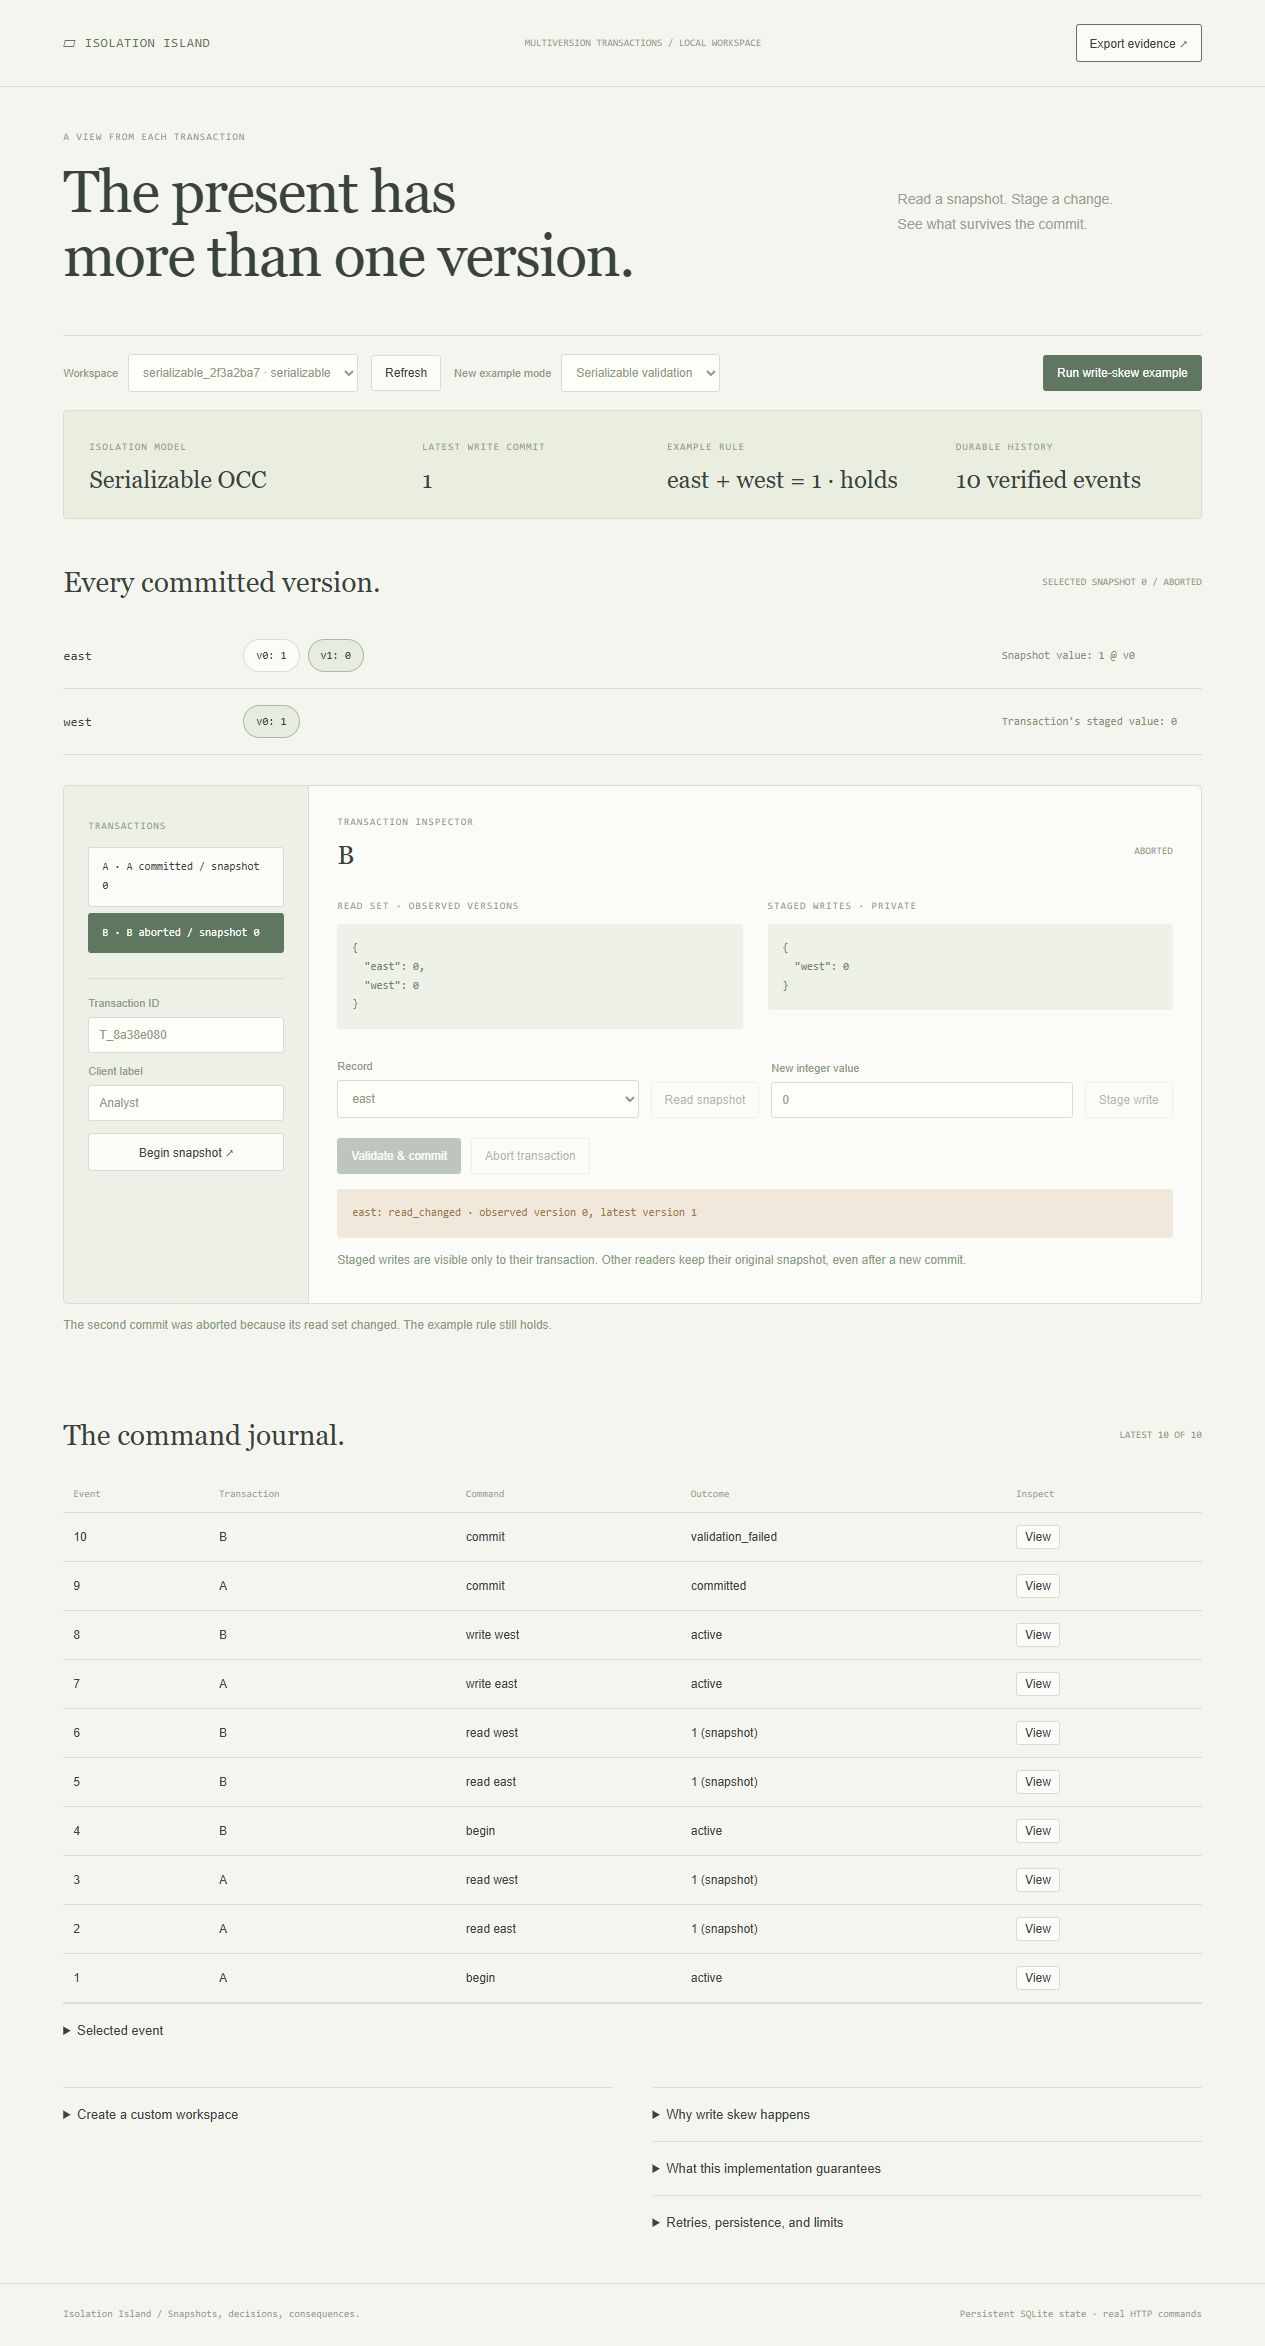
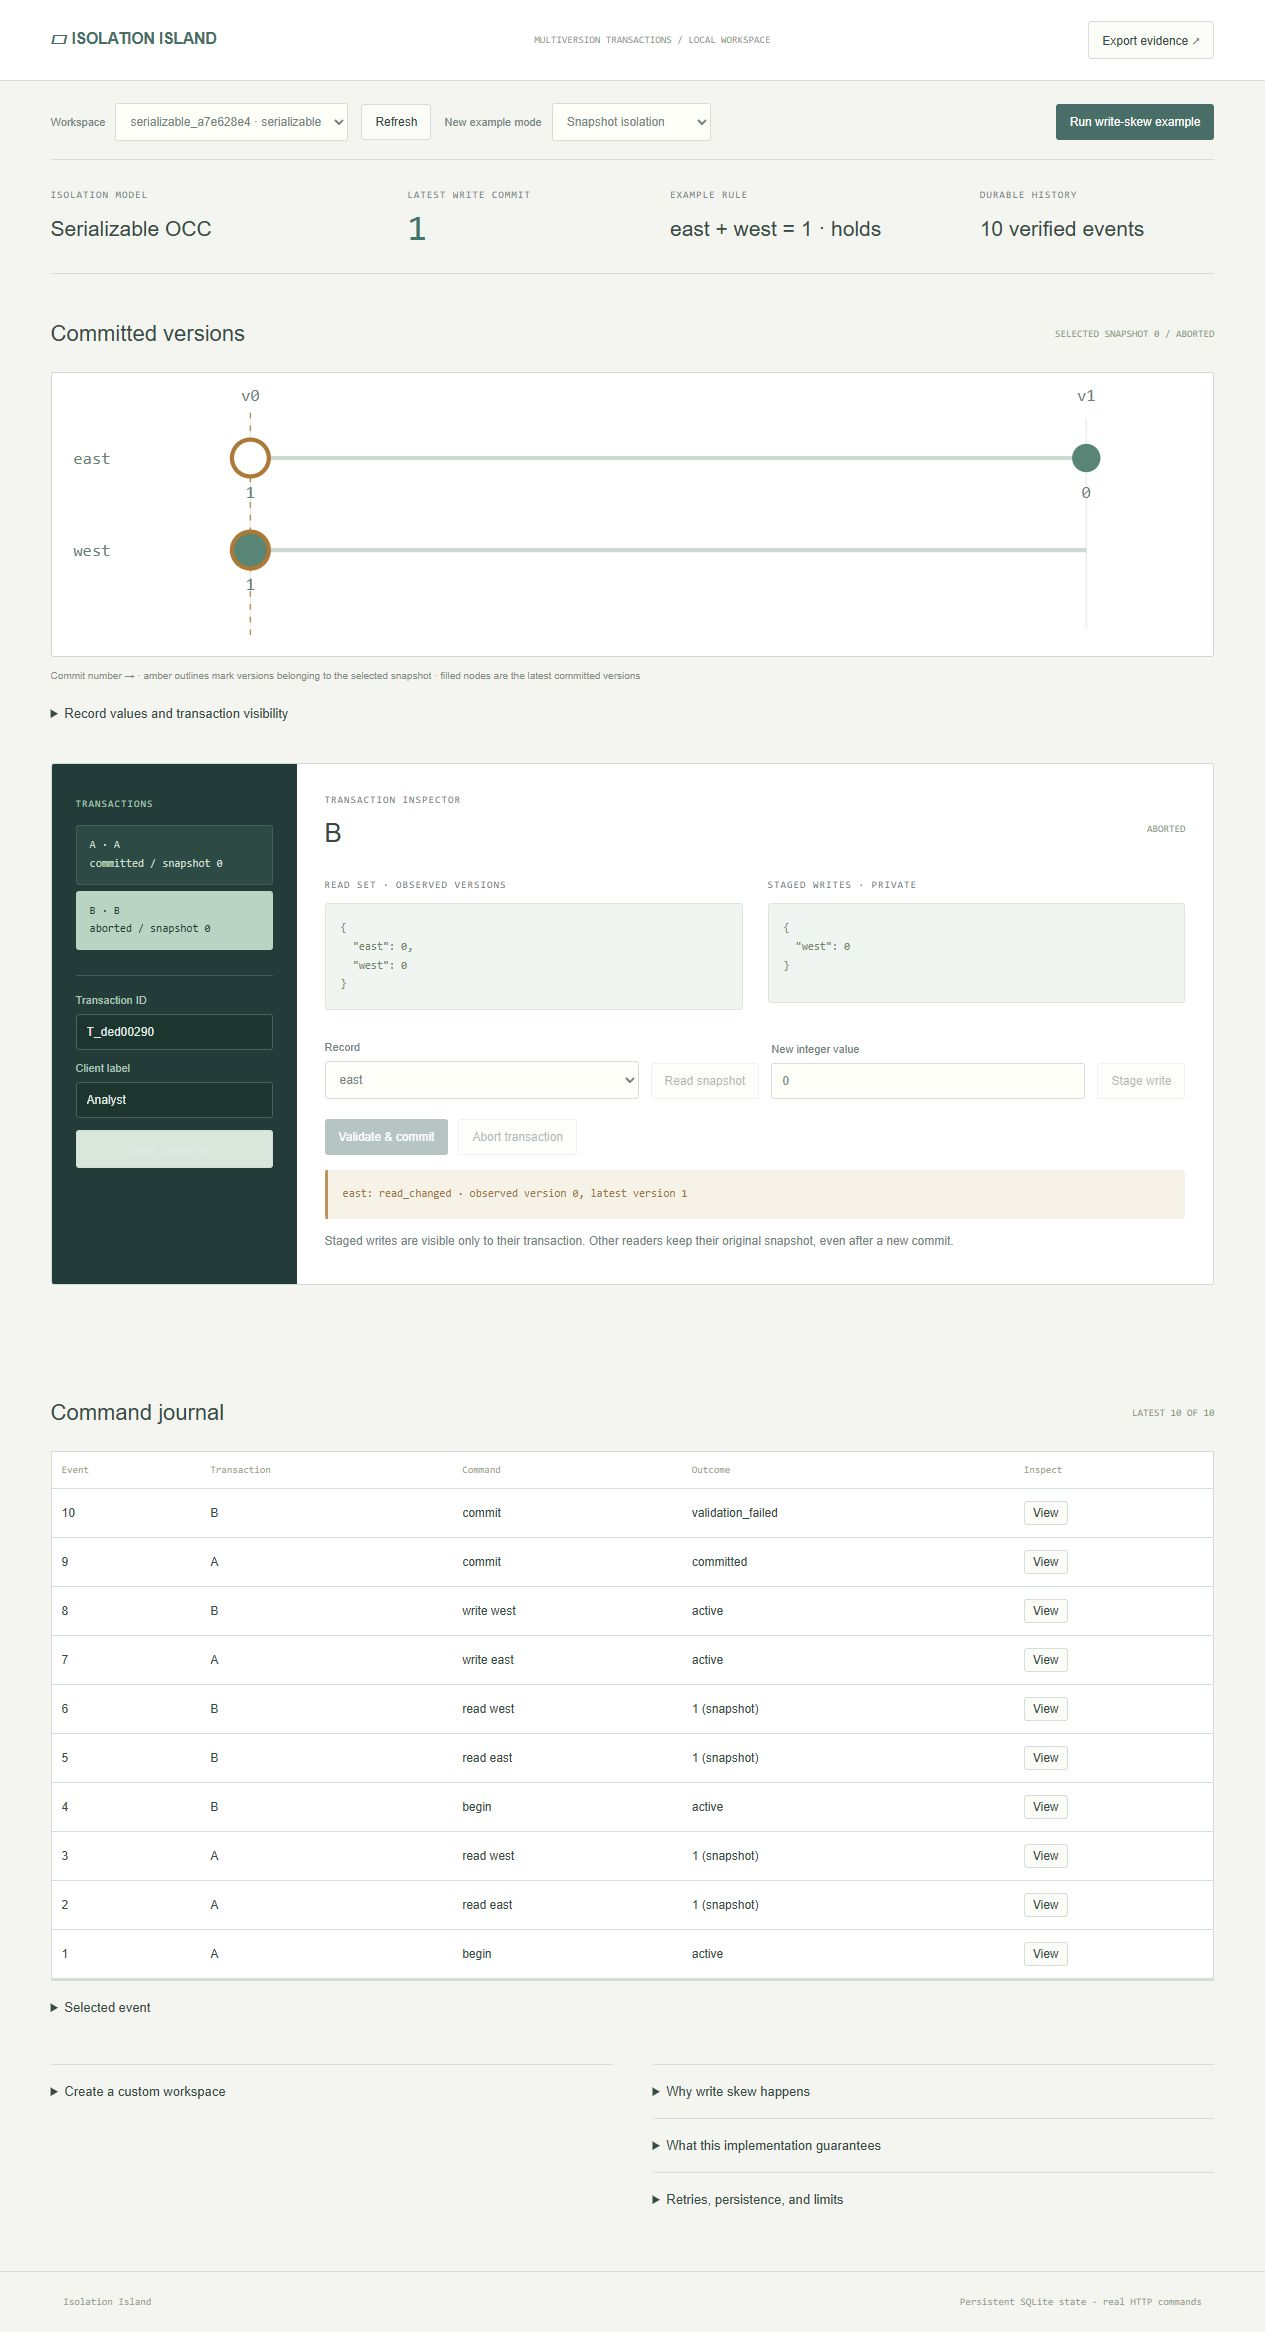
Visualize committed record versions and transaction snapshots

diff --git a/app.js b/app.js
@@ -48,13 +48,102 @@ async function guarded(fn) {
     controls();
   }
 }
+let lastVersionMap = "";
+function drawVersions(state, tx) {
+  const signature = JSON.stringify([state.versions, tx?.snapshot]);
+  if (signature === lastVersionMap) return;
+  lastVersionMap = signature;
+  const chart = $("version-map"),
+    entries = Object.entries(state.versions),
+    width = Math.max(820, 200 + 110 * (state.head + 1)),
+    height = 70 + entries.length * 65;
+  const element = (tag, attrs, text) => {
+    const node = document.createElementNS("http://www.w3.org/2000/svg", tag);
+    for (const [k, v] of Object.entries(attrs)) node.setAttribute(k, v);
+    if (text !== undefined) node.textContent = text;
+    return node;
+  };
+  const x = (v) => 140 + (v * (width - 230)) / Math.max(1, state.head);
+  chart.setAttribute("viewBox", `0 0 ${width} ${height}`);
+  chart.style.minWidth = `${width}px`;
+  chart.replaceChildren();
+  if (!matchMedia("(prefers-reduced-motion: reduce)").matches)
+    chart.animate([{ opacity: 0.45 }, { opacity: 1 }], { duration: 300 });
+  for (let v = 0; v <= state.head; v++) {
+    chart.append(
+      element("line", {
+        x1: x(v),
+        x2: x(v),
+        y1: 32,
+        y2: height - 20,
+        class: "commit-line",
+      }),
+    );
+    chart.append(
+      element("text", { x: x(v), y: 20, "text-anchor": "middle" }, `v${v}`),
+    );
+  }
+  if (tx)
+    chart.append(
+      element("line", {
+        x1: x(tx.snapshot),
+        x2: x(tx.snapshot),
+        y1: 28,
+        y2: height - 15,
+        class: "snapshot-line",
+      }),
+    );
+  entries.forEach(([name, versions], i) => {
+    const y = 60 + i * 65,
+      visible = tx ? versions.findLast((v) => v.version <= tx.snapshot) : null;
+    chart.append(element("text", { x: 15, y: y + 4 }, name));
+    chart.append(
+      element("line", {
+        x1: x(0),
+        x2: x(state.head),
+        y1: y,
+        y2: y,
+        class: "record-line",
+      }),
+    );
+    versions.forEach((v, j) => {
+      const g = element("g", {}, undefined),
+        chosen = visible?.version === v.version;
+      g.append(
+        element(
+          "title",
+          {},
+          `${name}: ${v.value} at commit ${v.version}${chosen ? ", selected snapshot" : ""}`,
+        ),
+      );
+      g.append(
+        element("circle", {
+          cx: x(v.version),
+          cy: y,
+          r: chosen ? 13 : 9,
+          class: `version-node ${j === versions.length - 1 ? "latest" : ""} ${chosen ? "snapshot-node" : ""}`,
+        }),
+      );
+      g.append(
+        element(
+          "text",
+          { x: x(v.version), y: y + 28, "text-anchor": "middle" },
+          String(v.value),
+        ),
+      );
+      chart.append(g);
+    });
+  });
+}
 function render() {
+  const focusedTransaction = document.activeElement?.dataset.transaction;
   const state = snapshot.state,
     t = transaction();
   $("mode").textContent =
     state.mode === "snapshot" ? "Snapshot isolation" : "Serializable OCC";
   $("head").textContent = state.head;
   $("audit").textContent = snapshot.events.length + " verified events";
+  drawVersions(state, t);
   const records = state.versions,
     rule =
       Object.keys(records).length === 2 &&
@@ -102,6 +191,7 @@ function render() {
   $("transactions").replaceChildren(
     ...Object.values(state.transactions).map((tx) => {
       const b = document.createElement("button");
+      b.dataset.transaction = tx.id;
       b.textContent = `${tx.id} · ${tx.client}\n${tx.status} / snapshot ${tx.snapshot}`;
       b.setAttribute("aria-pressed", selected === tx.id);
       b.onclick = () => {
@@ -112,6 +202,10 @@ function render() {
       return b;
     }),
   );
+  if (focusedTransaction)
+    [...$("transactions").querySelectorAll("button")]
+      .find((b) => b.dataset.transaction === focusedTransaction)
+      ?.focus({ preventScroll: true });
   const old = $("record").value;
   $("record").replaceChildren(
     ...Object.keys(records).map((k) => new Option(k, k)),

diff --git a/style.css b/style.css
@@ -437,3 +437,195 @@ footer {
     flex-wrap: wrap;
   }
 }
+
+/* Version ledger */
+:root {
+  background: #f4f5f1;
+  --green: #426d67;
+  --line: #d3ddd8;
+  color: #344a45;
+}
+header {
+  background: #fff;
+  padding: 21px 4%;
+}
+header a {
+  font:
+    600 16px Arial,
+    sans-serif;
+  letter-spacing: -0.3px;
+}
+main {
+  padding: 22px 4% 45px;
+}
+.workspace-bar {
+  border-top: 0;
+  padding-top: 0;
+}
+.summary {
+  background: transparent;
+  border-inline: 0;
+  border-radius: 0;
+  padding: 24px 0;
+  gap: 28px;
+}
+.summary strong {
+  font:
+    500 21px Arial,
+    sans-serif;
+  line-height: 1.4;
+}
+#head {
+  font:
+    36px ui-monospace,
+    monospace;
+  color: #36736a;
+  margin-top: 5px;
+}
+.small,
+small,
+label,
+.note,
+#read-result,
+.lower p,
+#status {
+  color: #71857d;
+}
+.section-head h2 {
+  font:
+    500 22px Arial,
+    sans-serif;
+}
+.version-scroll {
+  overflow: auto;
+  border: 1px solid #cbd8d1;
+  background: #fff;
+  border-radius: 3px;
+}
+#version-map {
+  display: block;
+  width: 100%;
+}
+#version-map text {
+  font:
+    12px ui-monospace,
+    monospace;
+  fill: #658276;
+}
+.commit-line {
+  stroke: #e7eeea;
+}
+.record-line {
+  stroke: #cbdad2;
+  stroke-width: 3;
+}
+.snapshot-line {
+  stroke: #bc9458;
+  stroke-dasharray: 4 5;
+}
+.version-node {
+  fill: #fff;
+  stroke: #97b6a6;
+  stroke-width: 2;
+}
+.version-node.latest {
+  fill: #518576;
+  stroke: #518576;
+}
+.version-node.snapshot-node {
+  stroke: #b17b34;
+  stroke-width: 3;
+}
+.map-key {
+  font:
+    10px/1.7 Arial,
+    sans-serif;
+  color: #7e8e85;
+}
+.records > details {
+  border: 0;
+  padding: 12px 0;
+}
+.transaction-area {
+  border-radius: 3px;
+  background: #fff;
+}
+.transaction-area nav {
+  background: #203c39;
+  color: #dfebe6;
+  border: 0;
+}
+.transaction-area nav .small,
+.transaction-area nav label {
+  color: #a9c5b9;
+}
+#transactions button {
+  background: #294a44;
+  color: #c8ded3;
+  border-color: #3f6056;
+  white-space: pre-line;
+}
+#transactions button[aria-pressed="true"] {
+  background: #b5d4c2;
+  border-color: #b5d4c2;
+  color: #1d3e33;
+}
+#begin-form {
+  border-color: #3f6056;
+}
+#begin-form input {
+  background: #18352f;
+  border-color: #466258;
+  color: #e0ece7;
+}
+#begin-form button {
+  background: #d7e6dc;
+}
+.sets pre {
+  background: #f0f5f1;
+  border: 1px solid #dae5dd;
+  min-height: 100px;
+}
+#conflicts {
+  border-left: 3px solid #bf975c;
+  background: #f8f2e8;
+}
+button {
+  transition:
+    background 0.18s,
+    border-color 0.18s;
+}
+button:hover:not(:disabled) {
+  background: #e5eee8;
+}
+#commit:hover:not(:disabled),
+#skew:hover:not(:disabled) {
+  background: #34584e;
+}
+.table-wrap {
+  background: #fff;
+  border: 1px solid var(--line);
+}
+@media (max-width: 600px) {
+  header {
+    flex-wrap: wrap;
+  }
+  .summary {
+    padding: 18px 0;
+  }
+  .summary strong {
+    font-size: 18px;
+  }
+  .workspace-bar select {
+    max-width: 100%;
+  }
+  .commit-actions {
+    flex-wrap: wrap;
+  }
+}
+@media (prefers-reduced-motion: reduce) {
+  * {
+    transition: none !important;
+    animation: none !important;
+  }
+}

diff --git a/index.html b/index.html
@@ -14,15 +14,6 @@
       ><button id="export">Export evidence ↗</button>
     </header>
     <main>
-      <section class="intro">
-        <div>
-          <p class="small">A VIEW FROM EACH TRANSACTION</p>
-          <h1>The present has<br />more than one version.</h1>
-        </div>
-        <p>
-          Read a snapshot. Stage a change.<br />See what survives the commit.
-        </p>
-      </section>
       <section class="workspace-bar">
         <label>Workspace<select id="workspaces"></select></label
         ><button id="refresh">Refresh</button
@@ -43,10 +34,24 @@
       </section>
       <section class="records">
         <div class="section-head">
-          <h2>Every committed version.</h2>
+          <h2>Committed versions</h2>
           <span id="view-note"></span>
         </div>
-        <div id="record-list"></div>
+        <div class="version-scroll">
+          <svg
+            id="version-map"
+            role="img"
+            aria-label="Committed record versions by commit number"
+          ></svg>
+        </div>
+        <p class="map-key">
+          Commit number → · amber outlines mark versions belonging to the
+          selected snapshot · filled nodes are the latest committed versions
+        </p>
+        <details>
+          <summary>Record values and transaction visibility</summary>
+          <div id="record-list"></div>
+        </details>
       </section>
       <section class="transaction-area">
         <nav>
@@ -111,7 +116,7 @@
       <p id="error" role="alert"></p>
       <section class="events">
         <div class="section-head">
-          <h2>The command journal.</h2>
+          <h2>Command journal</h2>
           <span id="event-count"></span>
         </div>
         <div class="table-wrap">
@@ -218,7 +223,7 @@
       </section>
     </main>
     <footer>
-      Isolation Island / Snapshots, decisions, consequences.<span
+      Isolation Island<span
         >Persistent SQLite state · real HTTP commands</span
       >
     </footer>

diff --git a/README.md b/README.md
@@ -4,6 +4,8 @@ A durable MVCC transaction workbench: reproduce write skew under snapshot isolat
 
 ![Serializable validation aborts a stale reader](docs/workbench.png)
 
+The commit-version diagram shows durable values on aligned record lanes. Green filled nodes mark the latest committed versions; amber outlines identify the committed versions visible to the selected transaction snapshot. Private staged writes remain in the inspector. The diagram fades on changed version/snapshot data and respects reduced motion; narrow screens scroll it internally.
+
 ## Run
 
 Requires Python 3.10+; no runtime packages or external services.
